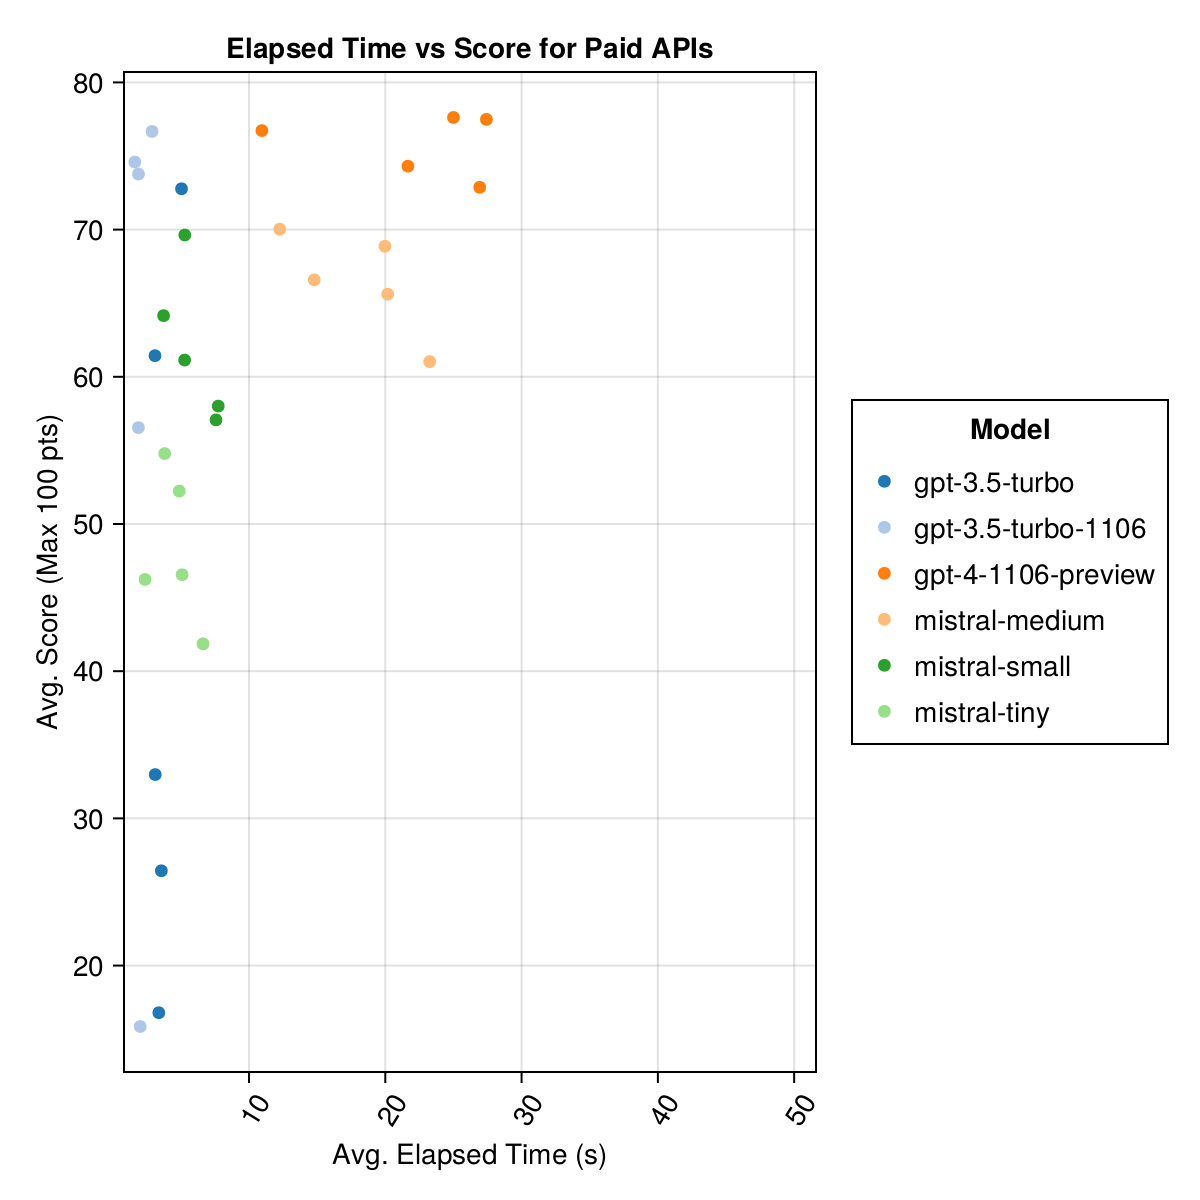
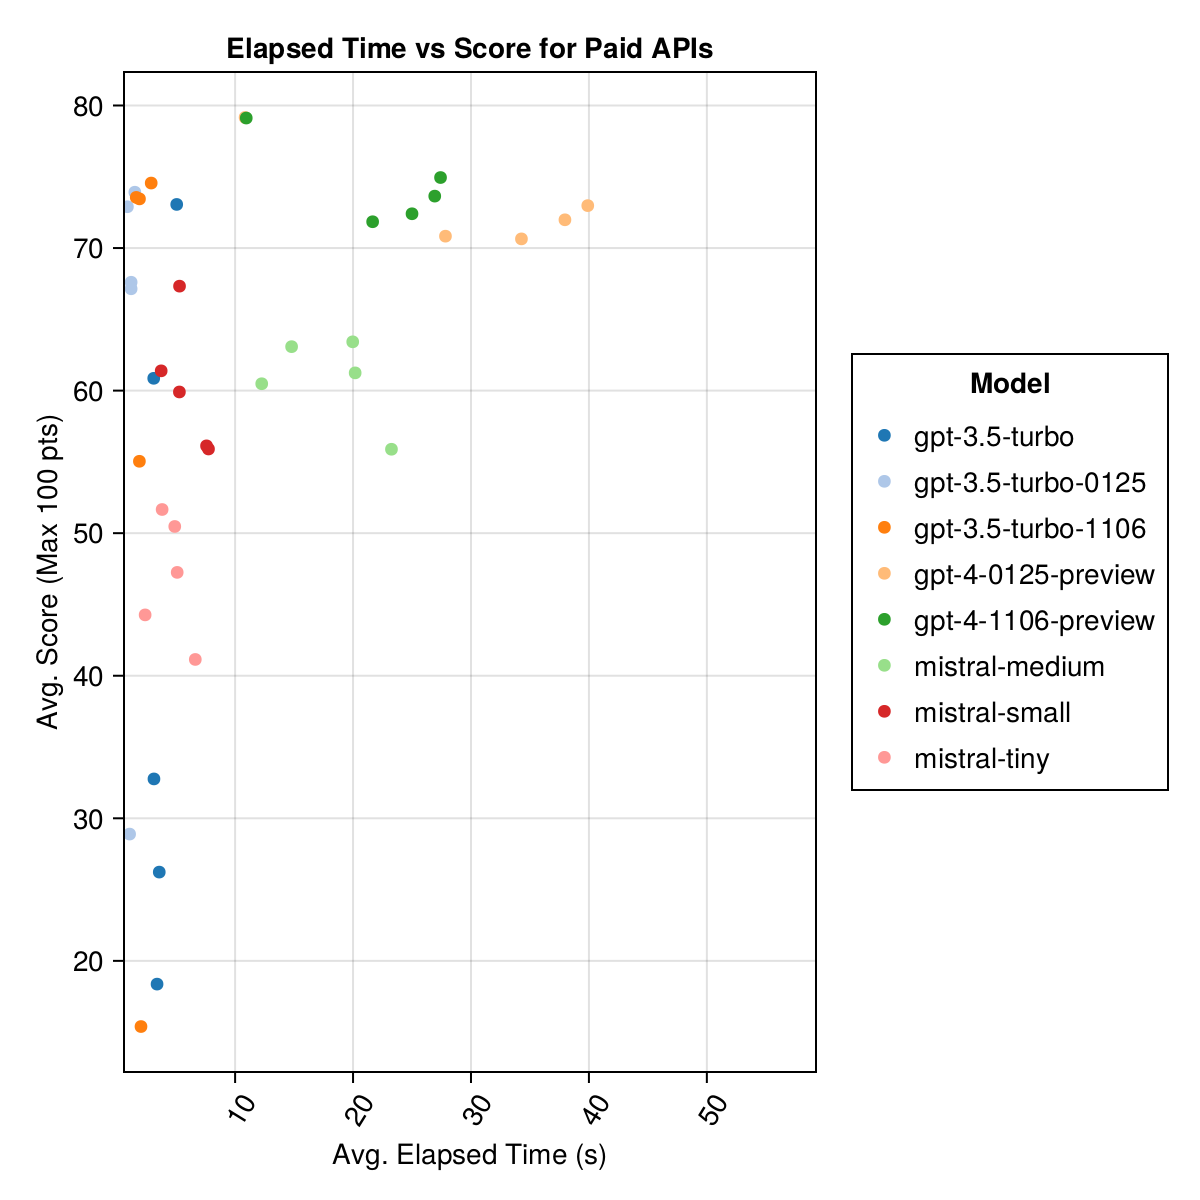
refresh assets

diff --git a/README.md b/README.md
@@ -44,7 +44,7 @@ Each model's and prompt's performance is evaluated based on several criteria:
 At the moment, all criteria are weighed equally and each test case can earn a maximum of 100 points. If a code passes all criteria, it gets 100/100 points. If it fails one criterion (eg, all unit tests), it gets 75/100 points. If it fails two criteria (eg, it runs but all examples and unit tests are broken), it gets 50 points, and so on.
 
 ## Results (Preview)
-To provide a glimpse of the repository's functionality, we have included example results for the first 14 test cases. Open the documentation for the full results and a deep dive on each test case.
+To provide a glimpse of the repository's functionality, we have included example results for the first 14 test cases. [**Open the documentation**](https://svilupp.github.io/Julia-LLM-Leaderboard/dev/) for the full results and a deep dive on each test case.
 
 > [!WARNING]  
 > These scores might change as we evolve the supporting functionality and add more models.
@@ -53,16 +53,21 @@ Remember that the benchmark is quite challenging for any model - a single extra 
 
 ### Paid APIs
 
-Across the board, GPT-4 tends to be among the best-performing models. However, "mistral-small" (the recently released "Mixtral 8x7B" model) is quite impressive and it beats the default GPT-3.5 Turbo model in most cases.
+Across the board, GPT-4 tends to be among the best-performing models. The latest GPT3.5-Turbo (0125) scores very well - in many cases, it's as good as GPT-4 Turbo, yet it's much cheaper and faster (see the deep-dive in the docs)!
+"mistral-small" (the recently released "Mixtral 8x7B" model) is quite impressive, as it beats many of the GPT-3.5 Turbo in many cases.
 
-| model              | InJulia | JuliaExpertAsk | JuliaExpertCoTTask | JuliaRecapCoTTask | JuliaRecapTask | AverageScore |
-|--------------------|---------|----------------|--------------------|-------------------|----------------|--------------|
-| gpt-4-1106-preview |    77.5 |           76.7 |               74.3 |              77.6 |           72.9 |         75.8 |
-|     mistral-medium |    66.6 |           70.0 |               68.9 |              61.0 |           65.6 |         66.4 |
-|      mistral-small |    69.6 |           64.2 |               61.1 |              57.1 |           58.0 |         62.0 |
-| gpt-3.5-turbo-1106 |    76.7 |           74.6 |               73.8 |              15.9 |           56.5 |         59.5 |
-|       mistral-tiny |    54.8 |           46.2 |               41.9 |              52.2 |           46.6 |         48.3 |
-|      gpt-3.5-turbo |    72.8 |           61.4 |               33.0 |              26.4 |           16.8 |         42.1 |
+| Model              | Elapsed | Score | Score Std Deviation | Count Zero Score | Count Full Score | Cost Cents |
+|--------------------|---------|-------|---------------------|------------------|------------------|------------|
+| gpt-4-1106-preview |    22.4 |  74.4 |                29.9 |               19 |              142 |       1.21 |
+| gpt-4-0125-preview |    30.2 |  73.1 |                31.7 |               26 |              140 |        1.3 |
+| gpt-3.5-turbo-0125 |     1.2 |  62.1 |                36.5 |               62 |               95 |       0.03 |
+|     mistral-medium |    18.1 |  60.8 |                33.2 |               22 |               90 |       0.41 |
+|      mistral-small |     5.9 |  60.1 |                30.2 |               27 |               76 |       0.09 |
+| gpt-3.5-turbo-1106 |     2.1 |  58.4 |                39.2 |               82 |               97 |       0.04 |
+|       mistral-tiny |     4.6 |  46.9 |                32.0 |               75 |               42 |       0.02 |
+|      gpt-3.5-turbo |     3.6 |  42.3 |                38.2 |              132 |               54 |       0.04 |
+
+Note: From mid-February 2024, "gpt-3.5-turbo" will point to the latest release, "gpt-3.5-turbo-0125" (deprecating the June release).
 
 Same information, but as a bar chart:
 
@@ -76,31 +81,36 @@ In addition, we can consider the performance (score) versus the cost (measured i
 
 Open-source models are generally not as good as the best paid APIs, but they are getting close! Note that the "mistral-small" is already available to be run locally and there will be many future finetunes!
 
-The best-performing models are in general around 33/34Bn parameters - Phind CodeLlama and Deepseek Coder, however, they get defeated by a 7Bn Magicoder (if we use Q6 quantization).
+The best-performing models are in general around 33/34Bn parameters - Phind CodeLlama and Deepseek Coder, however, magicoder:7b (Q6_K!) and codellama:13b (Q4_K_M!) give them a run for their money.
 
 | Model                              | Elapsed | Elapsed Median | Score | Score Median | Score Std Deviation | Count Zero Score | Count Full Score |
 |------------------------------------|---------|----------------|-------|--------------|---------------------|------------------|------------------|
-|             magicoder:7b-s-cl-q6_K |    15.6 |           15.6 |  61.9 |         60.0 |                28.7 |             11.0 |             35.0 |
-|             phind-codellama:34b-v2 |    37.1 |           37.1 |  61.2 |         72.5 |                33.1 |             28.0 |             50.0 |
-|                          magicoder |    12.8 |           12.8 |  53.7 |         50.0 |                32.8 |             41.0 |             51.0 |
-| deepseek-coder:33b-instruct-q4_K_M |    46.7 |           46.7 |  53.4 |         50.0 |                37.0 |             48.0 |             69.0 |
-|         nous-hermes2:34b-yi-q4_K_M |    56.8 |           56.8 |  50.8 |         50.0 |                32.9 |             65.0 |             47.0 |
-|             codellama:13b-instruct |    18.1 |           18.1 |  50.5 |         50.0 |                33.2 |             52.0 |             42.0 |
-|              openhermes2.5-mistral |    12.9 |           12.9 |  50.4 |         50.0 |                29.3 |             35.0 |             26.0 |
-|                 starling-lm:latest |    13.7 |           13.7 |  50.0 |         50.0 |                26.8 |             27.0 |             23.0 |
-|       openchat:7b-v3.5-1210-q4_K_M |    14.4 |           14.4 |  47.7 |         50.0 |                29.7 |             35.0 |             22.0 |
-|                        yi:34b-chat |    43.9 |           43.9 |  46.3 |         50.0 |                30.1 |             35.0 |             34.0 |
-|      mistral:7b-instruct-v0.2-q4_0 |    12.4 |           12.4 |  45.8 |         50.0 |                28.6 |             52.0 |             30.0 |
-|      mistral:7b-instruct-v0.2-q6_K |    21.7 |           21.7 |  45.7 |         50.0 |                28.8 |             31.0 |             19.0 |
-|    mistral:7b-instruct-v0.2-q4_K_M |    15.6 |           15.6 |  44.6 |         50.0 |                26.0 |             47.0 |             19.0 |
-|     solar:10.7b-instruct-v1-q4_K_M |    18.8 |           18.8 |  32.7 |         25.0 |                27.8 |             79.0 |              8.0 |
-|         mistral:7b-instruct-q4_K_M |    13.9 |           13.9 |  32.3 |         25.0 |                24.0 |             60.0 |              0.0 |
-|                             llama2 |    17.1 |           17.1 |  28.3 |         25.0 |                23.9 |             93.0 |              0.0 |
-|                          orca2:13b |    20.1 |           20.1 |  23.8 |          0.0 |                28.7 |            145.0 |              8.0 |
-|                    stablelm-zephyr |     9.9 |            9.9 |  21.3 |         25.0 |                22.0 |            125.0 |              1.0 |
-|         dolphin-phi:2.7b-v2.6-q6_K |     8.9 |            8.9 |  18.1 |          0.0 |                22.5 |            154.0 |              0.0 |
-|               codellama:13b-python |    12.5 |           12.5 |  13.8 |          0.0 |                21.1 |            140.0 |              0.0 |
-|              phi:2.7b-chat-v2-q6_K |    13.0 |           13.0 |   8.0 |          0.0 |                13.6 |            197.0 |              0.0 |
+|             phind-codellama:34b-v2 |    37.1 |           36.4 |  61.8 |         62.5 |                33.5 |             36.0 |             58.0 |
+|             magicoder:7b-s-cl-q6_K |    15.6 |           15.8 |  59.9 |         60.0 |                29.9 |             18.0 |             35.0 |
+|      codellama:13b-instruct-q4_K_M |     3.2 |            3.0 |  56.4 |         54.6 |                33.0 |             56.0 |             61.0 |
+| deepseek-coder:33b-instruct-q4_K_M |    46.7 |           44.6 |  55.0 |         50.0 |                36.8 |             62.0 |             68.0 |
+|                          magicoder |    12.8 |           10.7 |  53.7 |         50.0 |                33.2 |             49.0 |             52.0 |
+|         nous-hermes2:34b-yi-q4_K_M |    56.8 |           52.8 |  50.7 |         50.0 |                34.7 |             78.0 |             56.0 |
+|             codellama:13b-instruct |    18.1 |           16.7 |  50.0 |         50.0 |                34.4 |             65.0 |             44.0 |
+|       openchat:7b-v3.5-1210-q4_K_M |    14.4 |           13.7 |  49.4 |         50.0 |                30.3 |             48.0 |             23.0 |
+|              openhermes2.5-mistral |    12.9 |           12.2 |  48.9 |         50.0 |                31.3 |             55.0 |             27.0 |
+|                 starling-lm:latest |    13.7 |           12.5 |  48.4 |         50.0 |                30.2 |             58.0 |             26.0 |
+|       codellama:7b-instruct-q4_K_M |     2.1 |            2.0 |  47.8 |         50.0 |                35.3 |             95.0 |             38.0 |
+|                        yi:34b-chat |    43.9 |           41.3 |  45.6 |         50.0 |                30.5 |             45.0 |             34.0 |
+|      mistral:7b-instruct-v0.2-q6_K |    21.7 |           20.9 |  45.4 |         50.0 |                31.3 |             44.0 |             23.0 |
+|      mistral:7b-instruct-v0.2-q4_0 |    12.4 |           12.3 |  44.3 |         50.0 |                30.6 |             75.0 |             32.0 |
+|    mistral:7b-instruct-v0.2-q4_K_M |    15.6 |           15.1 |  42.6 |         50.0 |                28.6 |             71.0 |             23.0 |
+|      codellama:34b-instruct-q4_K_M |     7.5 |            6.8 |  39.7 |         50.0 |                36.1 |            127.0 |             35.0 |
+|      codellama:70b-instruct-q4_K_M |    16.3 |           13.8 |  36.4 |          0.0 |                41.2 |            179.0 |             58.0 |
+|     solar:10.7b-instruct-v1-q4_K_M |    18.8 |           17.7 |  35.2 |         50.0 |                31.1 |            107.0 |             10.0 |
+|         mistral:7b-instruct-q4_K_M |    13.9 |           13.0 |  34.8 |         50.0 |                26.5 |             80.0 |              0.0 |
+|        codellama:70b-instruct-q2_K |    11.2 |            9.4 |  29.8 |          0.0 |                37.7 |            198.0 |             29.0 |
+|                             llama2 |    17.1 |           16.3 |  26.5 |         25.0 |                26.5 |            131.0 |              0.0 |
+|                          orca2:13b |    20.1 |           18.3 |  23.1 |          0.0 |                30.6 |            166.0 |             11.0 |
+|                    stablelm-zephyr |     9.9 |            7.7 |  15.4 |          0.0 |                23.5 |            192.0 |              1.0 |
+|         dolphin-phi:2.7b-v2.6-q6_K |     8.9 |            8.4 |  14.9 |          0.0 |                22.9 |            188.0 |              0.0 |
+|               codellama:13b-python |    12.5 |           10.7 |  12.8 |          0.0 |                22.1 |            155.0 |              0.0 |
+|              phi:2.7b-chat-v2-q6_K |    13.0 |           11.6 |   8.9 |          0.0 |                19.4 |            222.0 |              0.0 |
 
 Same information, but as a bar chart:
 
@@ -128,12 +138,12 @@ Learnings so far:
 
 | Prompt Template    | Elapsed (s, average) | Elapsed (s, median) | Avg. Score (Max 100 pts) | Median Score (Max 100 pts) |
 |--------------------|----------------------|---------------------|--------------------------|----------------------------|
-|            InJulia |                 16.7 |                11.7 |                     50.6 |                       50.0 |
-|     JuliaExpertAsk |                 11.8 |                 7.8 |                     47.6 |                       50.0 |
-|     JuliaRecapTask |                 20.9 |                15.9 |                     45.6 |                       50.0 |
-| JuliaExpertCoTTask |                 19.7 |                14.9 |                     43.9 |                       50.0 |
-|  JuliaRecapCoTTask |                 19.7 |                15.2 |                     42.5 |                       50.0 |
-|               AsIs |                 36.3 |                11.2 |                     13.0 |                        0.0 |
+|            InJulia |                 15.5 |                10.8 |                     51.1 |                       50.0 |
+|     JuliaExpertAsk |                 10.6 |                 7.1 |                     47.6 |                       50.0 |
+|     JuliaRecapTask |                 18.9 |                14.0 |                     46.8 |                       50.0 |
+| JuliaExpertCoTTask |                 17.3 |                12.8 |                     42.9 |                       50.0 |
+|  JuliaRecapCoTTask |                 18.0 |                13.2 |                     41.7 |                       50.0 |
+|               AsIs |                 36.3 |                11.2 |                      9.8 |                        0.0 |
 
 Make your own analysis with `examples/summarize_results.jl`!
 
